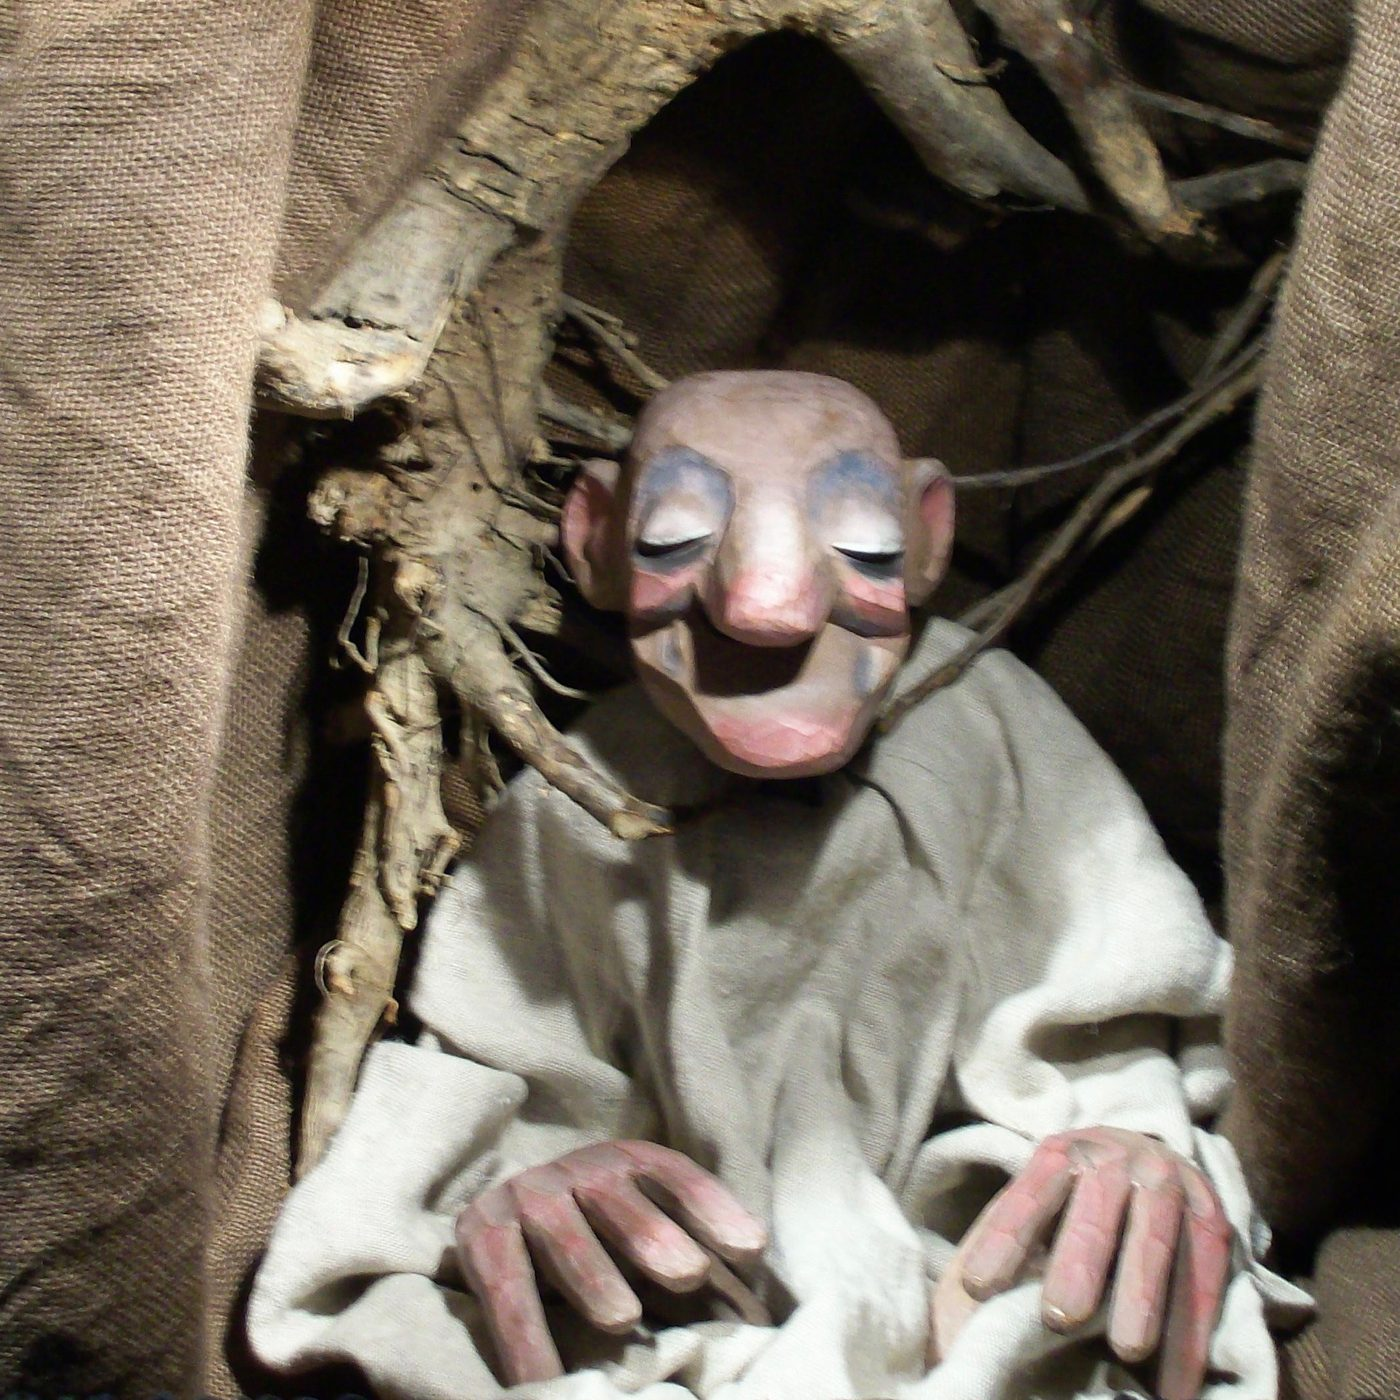
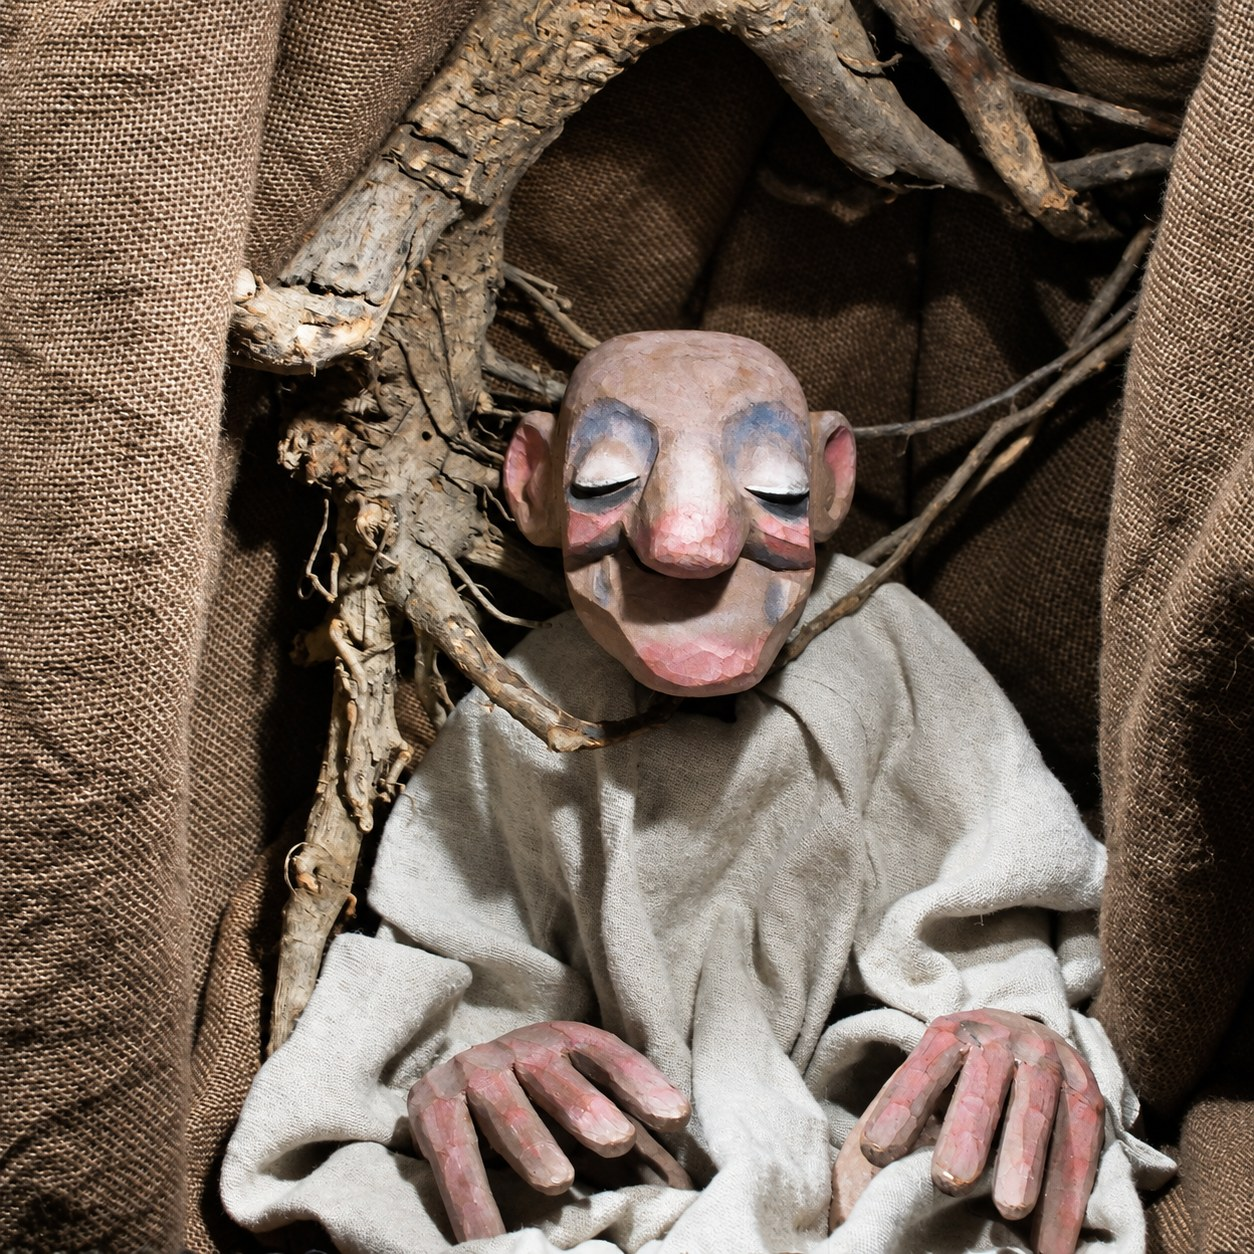
Deploy preview for PR 3 🛫

diff --git a/pr-preview/pr-3/index.html b/pr-preview/pr-3/index.html
@@ -123,7 +123,7 @@
     </article>
 
     <article class="play" id="kasperl">
-      <img class="contain" src="assets/kasperl.jpg?v=20260915b" width="389" height="835" loading="lazy" alt="Der farbige Kasperl vor der Waldszenen-Kulisse">
+      <img src="assets/kasperl.jpg?v=20260915c" width="1254" height="1254" loading="lazy" alt="Der Kasperl zeigt mit dem Finger an die Stirn">
       <div class="play-body">
         <div class="meta"><span>Kasperlkomödie ab 3 Jahren</span></div>
         <h3>… der wackelt seit 300 Jahren!</h3>
@@ -238,7 +238,7 @@
   </article>
   <article class="project reverse" id="waldszenen">
     <div class="project-media">
-      <img src="assets/waldszenen-1.jpg?v=20260915b" width="1448" height="1086" loading="lazy" alt="Puppenspielerin und Kasper vor der farbigen Waldszenen-Kulisse">
+      <img src="assets/waldszenen-1.jpg?v=20260915c" width="1448" height="1086" loading="lazy" alt="Puppenspielerin und Kasper vor der farbigen Waldszenen-Kulisse">
       <div class="project-thumbs">
         <img src="assets/waldszenen-2.jpg?v=20260915b" width="1280" height="854" loading="lazy" alt="Kasper zwischen weißen Stoffbahnen und Lichtkugeln">
         <img src="assets/waldszenen-klavier.jpg?v=20260915b" width="1200" height="1600" loading="lazy" alt="Josefine Mücksch am Flügel">
@@ -337,14 +337,14 @@
   <div class="gallery">
     <figure><img src="assets/hexe-und-kasperl.jpg?v=20260915b" width="1400" height="1400" loading="lazy" alt="Hexe Irma und Kasperl in der Guckkastenbühne"><figcaption>Kasperl &amp; Hexe Irma</figcaption></figure>
     <figure><img src="assets/der-stern.jpg" width="853" height="853" loading="lazy" alt="Der große gelbe Stern"><figcaption>Der Stern</figcaption></figure>
-    <figure><img src="assets/der-alte.jpg?v=20260915b" width="1400" height="1400" loading="lazy" alt="Die Puppe des Alten in einem hellen Gewand"><figcaption>Der Alte</figcaption></figure>
+    <figure><img src="assets/der-alte.jpg?v=20260915c" width="1254" height="1254" loading="lazy" alt="Die Puppe des Alten in einem hellen Gewand"><figcaption>Der Alte</figcaption></figure>
     <figure><img src="assets/schloss.jpg?v=20260915b" width="1200" height="1336" loading="lazy" alt="Gemaltes Schloss als Kulisse"><figcaption>Kulisse</figcaption></figure>
     <figure><img src="assets/dummling.jpg" width="1200" height="1200" loading="lazy" alt="Zwei Puppen in glitzernder Kulisse vor einem roten Thron"><figcaption>Drei Federn</figcaption></figure>
     <figure><img src="assets/waldszenen-3.jpg?v=20260915b" width="1280" height="854" loading="lazy" alt="Kasper zwischen weißen und roten Stoffbahnen"><figcaption>Waldszenen</figcaption></figure>
     <figure><img src="assets/prinz-und-prinzessin.jpg" width="768" height="768" loading="lazy" alt="Die Puppen Prinz und Prinzessin"><figcaption>Prinzessin in der Suppe</figcaption></figure>
     <figure><img src="assets/waldszenen-2.jpg?v=20260915b" width="1280" height="854" loading="lazy" alt="Kasper zwischen weißen Stoffbahnen und Lichtkugeln"><figcaption>Waldszenen</figcaption></figure>
-    <figure><img src="assets/koffer-1.jpg?v=20260915b" width="1122" height="1402" loading="lazy" alt="Spielerin mit geöffneten Augen und ausgebreiteten Armen hinter einem großen Koffer auf der Bühne"><figcaption>Auf der Bühne</figcaption></figure>
-    <figure><img src="assets/putzfee.jpg?v=20260915b" width="1448" height="1086" loading="lazy" alt="Die Putzfee mit weißen Locken und goldenem Umhang"><figcaption>Der Stern</figcaption></figure>
+    <figure><img src="assets/koffer-1.jpg?v=20260915c" width="1122" height="1402" loading="lazy" alt="Spielerin mit geöffneten Augen und ausgebreiteten Armen hinter einem großen Koffer auf der Bühne"><figcaption>Auf der Bühne</figcaption></figure>
+    <figure><img src="assets/putzfee.jpg?v=20260915c" width="1448" height="1086" loading="lazy" alt="Die Putzfee mit weißen Locken und goldenem Umhang"><figcaption>Der Stern</figcaption></figure>
     <figure><img src="assets/puppe-bunt.jpg" width="900" height="1200" loading="lazy" alt="Puppe mit buntem Lockenhaar und Spitzenkragen"><figcaption>Aus der Puppenwerkstatt</figcaption></figure>
   </div>
   <div class="posters">
